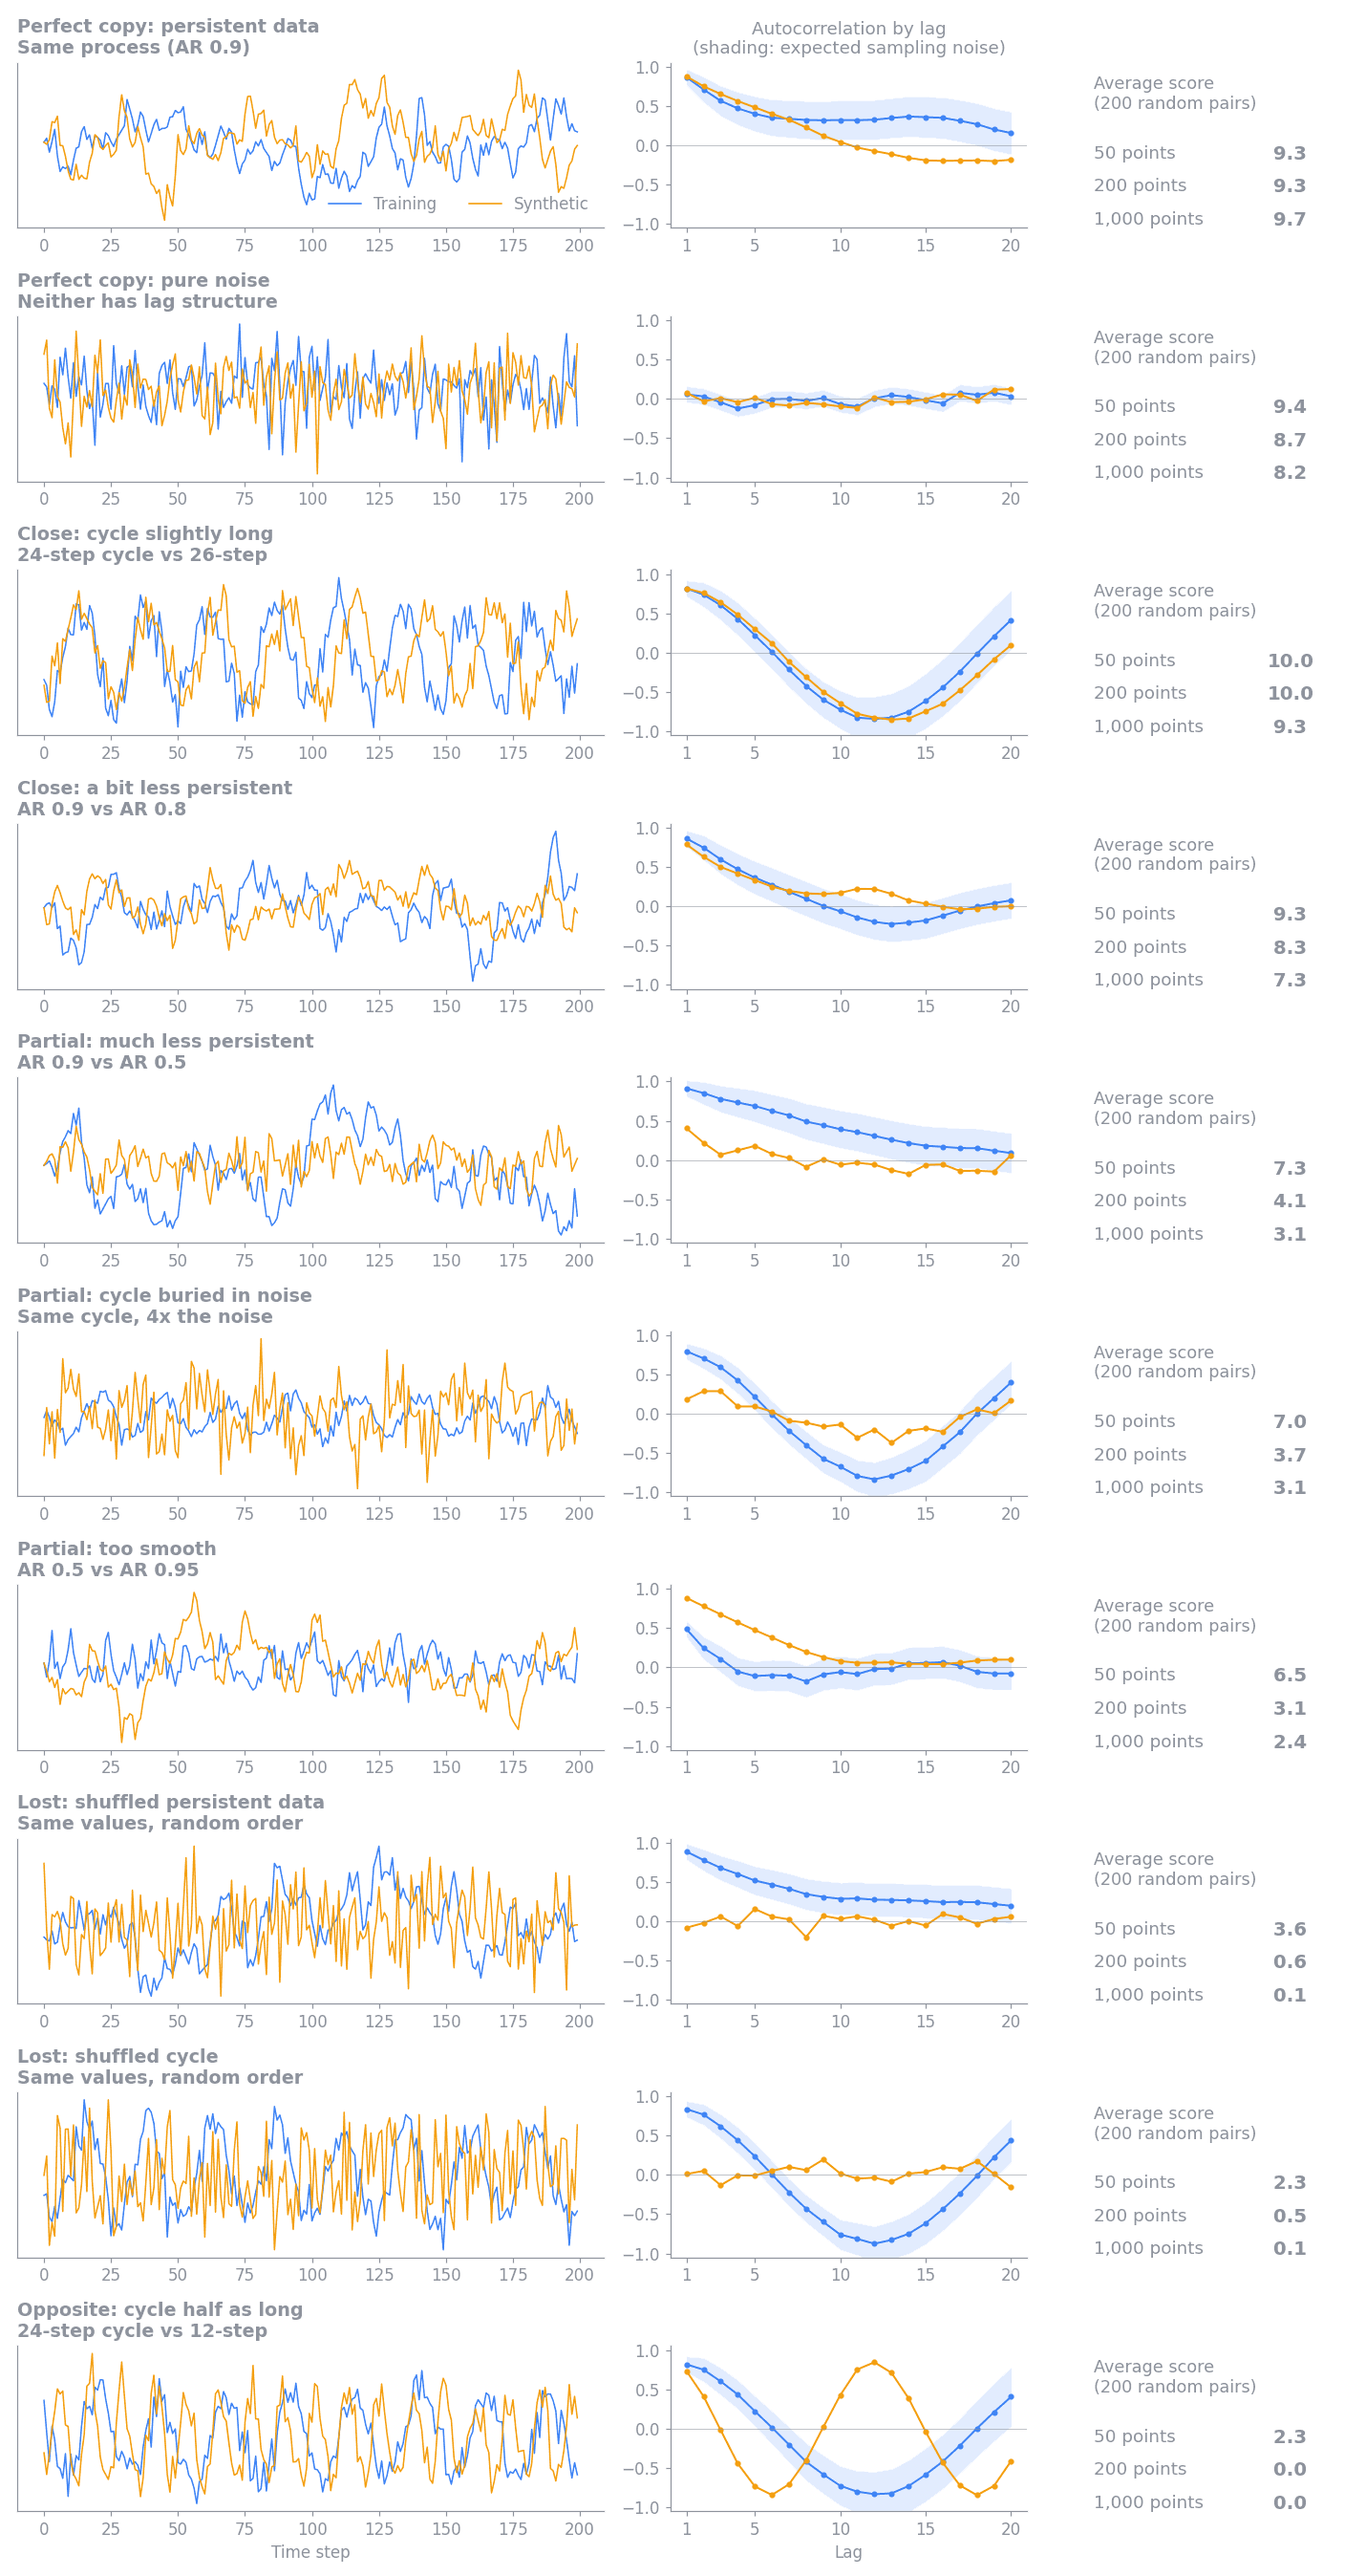
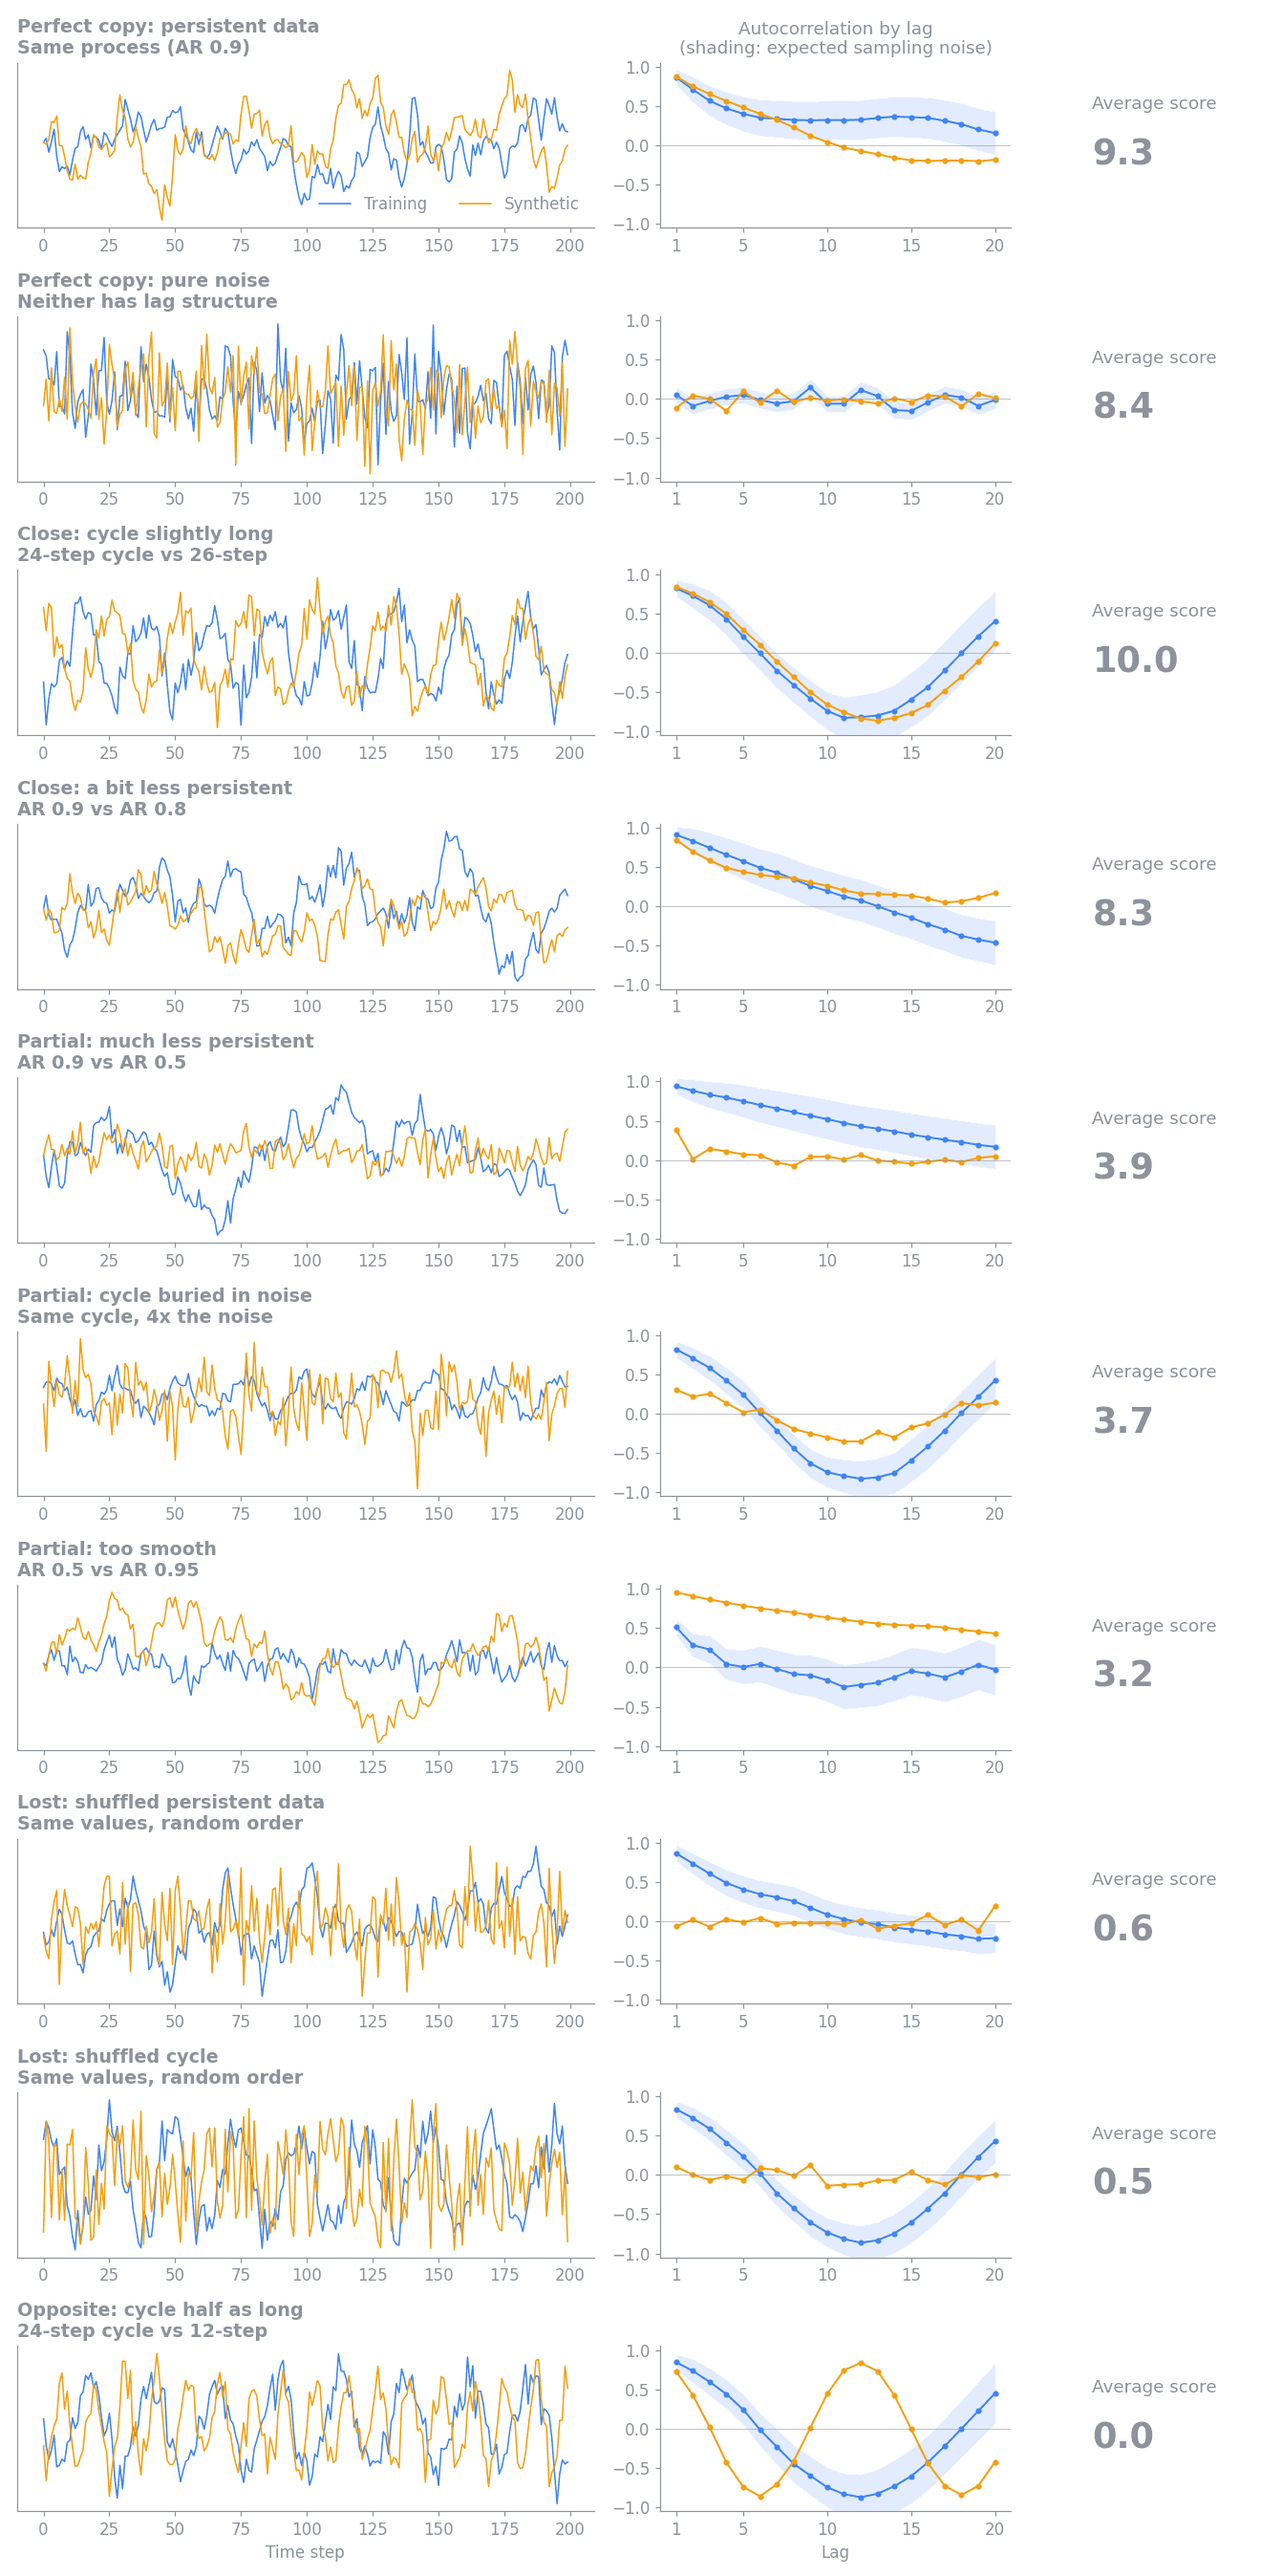
docs: show only 200-point scenario scores and generalize the length note

diff --git a/docs/user-guide/time-series-metrics/autocorrelation-similarity.md b/docs/user-guide/time-series-metrics/autocorrelation-similarity.md
@@ -59,15 +59,14 @@ synthetic series (orange):
   number of steps between the two values being compared. The shaded band is
   the sampling noise the score allows for.
 - The right column shows the average score across 200 random pairs from the
-  same scenario, at 50, 200, and 1,000 points per sequence. The plotted pair
-  is one example at 200 points, and a single pair can land a point or more
-  away from the average.
+  same scenario, with 200 points per sequence. The plotted pair is one of
+  them, and a single pair can land a point or more away from the average.
 
 ![Ten training and synthetic series pairs with their autocorrelation profiles and average scores: perfect copies, close matches, partial loss of persistence or cycle strength, overly smooth synthetic data, shuffled synthetic data, and a cycle half as long as in training.](assets/autocorrelation-scenarios-core.png)
 
 ![Eight more training and synthetic series pairs: matching and missing trends, a cycle longer than max_lag, a level, scale, and phase change, missing values, outlier spikes, a regime change, and a shorter synthetic sequence.](assets/autocorrelation-scenarios-additional.png)
 
-With 200 or more points per sequence, scores fall into rough tiers:
+With about 200 points per sequence, scores fall into rough tiers:
 
 - About 8 to 10: the synthetic data keeps the training data's persistence and
   cycles. Two pure-noise series average about 8.5, because a single pair's
@@ -80,13 +79,13 @@ With 200 or more points per sequence, scores fall into rough tiers:
   values are shuffled, a trend is missing, or a cycle has the wrong length.
 - 0: the synthetic values are constant.
 
-Longer sequences measure autocorrelation more precisely, so the same partial
-loss scores somewhat lower at 1,000 points than at 200. Short sequences carry
-less evidence, so their scores bunch toward the middle. At 50 points per
-sequence, a partial loss still scores about 7, and shuffled data scores about
-3. The metric also cannot see patterns longer than `max_lag` steps, and by
-design it ignores differences in level, scale, and phase, as the additional
-scenarios show.
+Sequence length affects how much the score can tell apart. Longer sequences
+measure autocorrelation more precisely, so a real difference stands out more
+clearly and scores lower. Shorter sequences carry less evidence, so the metric
+gives them more benefit of the doubt and their scores bunch toward the middle.
+Synthetic data from the same process scores high at any length. The metric
+also cannot see patterns longer than `max_lag` steps, and by design it ignores
+differences in level, scale, and phase, as the additional scenarios show.
 
 These tiers are a guide rather than pass or fail thresholds. Compare scores
 only when the selected columns, groups, and `max_lag` are the same. Whether a
